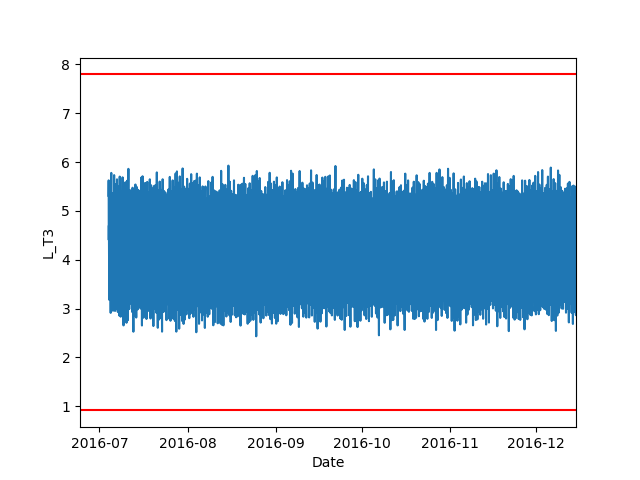
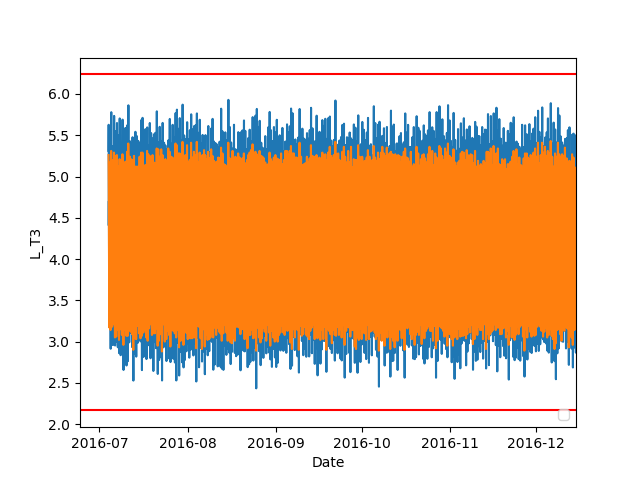
add predictions to arma plots, produce different arma plots, add implementation of pca

diff --git a/sequential_data/pca.py b/sequential_data/pca.py
@@ -1,29 +1,119 @@
 from numpy import *
 import numpy as np
 import pandas as pd
-from sklearn import preprocessing
-from statsmodels.multivariate.pca import PCA
+from pandas import  datetime
+from sklearn.preprocessing import StandardScaler
+from sklearn.decomposition import PCA
+import matplotlib.pyplot as plt
 
-data = pd.read_csv("BATADAL_dataset03.csv")
-test_data = pd.read_csv("BATADAL_test_dataset.csv")
-#test_data = pd.read_csv("BATADAL_dataset04.csv")
+def parser(x):
+    return datetime.strptime(x, '%d/%m/%y %H')
 
-'''Normalise data'''
-# datanumpy = data[data.columns[1:]].values #returns a numpy array
-# min_max_scaler = preprocessing.MinMaxScaler()
-# datanumpy_scaled = min_max_scaler.fit_transform(datanumpy)
-# data[data.columns[1:]] = pd.DataFrame(datanumpy_scaled)
+parsed_train_data1 = pd.read_csv("BATADAL_dataset03.csv", header=0, parse_dates=[0], index_col=0, squeeze=True, date_parser=parser)
+parsed_train_data2 = pd.read_csv("BATADAL_dataset04.csv", header=0, parse_dates=[0], index_col=0, squeeze=True, date_parser=parser)
+parsed_test_data = pd.read_csv("BATADAL_test_dataset.csv", header=0, parse_dates=[0], index_col=0, squeeze=True, date_parser=parser)
+
+def set_attacks(test_set):
+    test_set = test_set.assign(ATT_FLAG=np.zeros(test_set.shape[:][0]))
+    test_set.loc[:,'ATT_FLAG'] = test_set.loc[:, 'ATT_FLAG'].map({0: -999})
+    test_set.loc['2017-01-16 09:00:00':'2017-01-19 06:00:00', 'ATT_FLAG'] = 1
+    test_set.loc['2017-01-30 08:00:00':'2017-02-02 00:00:00', 'ATT_FLAG'] = 1
+    test_set.loc['2017-02-09 03:00:00':'2017-02-10 09:00:00', 'ATT_FLAG'] = 1
+    test_set.loc['2017-02-12 01:00:00':'2017-02-13 07:00:00', 'ATT_FLAG'] = 1
+    test_set.loc['2017-02-24 05:00:00':'2017-02-28 08:00:00', 'ATT_FLAG'] = 1
+    test_set.loc['2017-03-10 14:00:00':'2017-03-13 21:00:00', 'ATT_FLAG'] = 1
+    test_set.loc['2017-03-25 20:00:00':'2017-03-27 01:00:00', 'ATT_FLAG'] = 1
+
+    return test_set
+
+def transform_data(dataset):
+    scalar = StandardScaler()
+    x = dataset.iloc[:,0:43].values
+    x = scalar.fit_transform(x)
+    y = dataset.iloc[:, 43]
+
+    return x,y
+
+def pca_task(pca, t, index, label):
+    pca_model = pca.transform(t)
+    residual = t - pca.inverse_transform(pca_model)
+    spe = np.square(np.linalg.norm(residual, axis = 1))
+    spe = spe / max(spe)
+
+    threshold = 0.09
+    notanomalous = spe > threshold
+
+    plt.plot(spe)
+    plt.plot(label.map({-999: -0.1, 0: 0, 1: 1}).values)
+    plt.show()
+
+    plt.figure(figsize=[15, 10])
+    plt.plot(notanomalous)
+    plt.plot(label.map({-999: -0.1, 0: 0, 1: 1}).values)
+    plt.show()
+
+    label = label.values
+    predict = notanomalous
+
+    print("*********PCA EValuation Results***********")
+    TP = 0
+    TN = 0
+    FP = 0
+    FN = 0
+    for i in range(len(predict)):
+        if (predict[i] == 1):
+            if (label[i] == 1):
+                TP = TP + 1
+            else:
+                FP = FP + 1
+        else:
+            if (label[i] == 1):
+                FN = FN + 1
+            else:
+                TN = TN + 1
+
+    Precision = float(TP) / float(TP + FP)
+    Recall = float(TP) / float(TP + FN)
+
+    F1 = 2 * float(Precision * Recall) / float(Precision + Recall)
+
+    numberOfAnomalousRegions = 0
+    detected = 0
+    for i in range(len(predict)):
+        if (label[i] == 1):
+            if (detected == 1):
+                continue
+            else:
+                if (predict[i] == 1):
+                    detected = 1
+                    numberOfAnomalousRegions = numberOfAnomalousRegions + 1
+                continue
+        else:
+            if (detected == 1):
+                detected = 0
+            continue
+    print('Total true positives ' +str(TP))
+    print('Total false negative ' + str(FN))
+
+    print('Precision= ' + str(Precision))
+    print('Recall= ' + str(Recall))
+    print('F1= ' + str(F1))
+    print('number of anomalous regions= ' + str(numberOfAnomalousRegions))
 
 
-# datanumpy = test_data[test_data.columns[1:]].values #returns a numpy array
-# min_max_scaler = preprocessing.MinMaxScaler()
-# datanumpy_scaled = min_max_scaler.fit_transform(datanumpy)
-# test_data[test_data.columns[1:]] = pd.DataFrame(datanumpy_scaled)
+test_set = set_attacks(parsed_test_data)
 
-pca_train = PCA(data[data.columns[1:-1]], method='eig', normalize=True, tol_em=5e-06)
+test_set = test_set.fillna(test_set.median(axis=0))
+training_set1 = parsed_train_data1.fillna(parsed_train_data1.median(axis = 0))
+training_set2 = parsed_train_data2.fillna(parsed_train_data2.median(axis = 0))
 
-fig = pca_train.plot_rsquare()
-fig.show()
+x1, y1 = transform_data(training_set1)
+x2, y2 = transform_data(training_set2)
+z, yz = transform_data(test_set)
+
+pca = PCA(n_components=7)
+pca.fit(x1)
+
+pca_task(pca, x2, training_set1.index, y2)
 
 
-print(pca_train.factors)

diff --git a/sequential_data/armaJoinedDataset.py b/sequential_data/armaJoinedDataset.py
@@ -1,14 +1,49 @@
-from datetime import  timedelta
-from sklearn.metrics import accuracy_score, recall_score, classification_report, confusion_matrix
+from datetime import timedelta
 from pandas import datetime
 import statistics as st
 import pandas as pd
-from matplotlib import pyplot
 from statsmodels.tsa.stattools import arma_order_select_ic
-
 from statsmodels.tsa.arima_model import ARMA
 from sklearn.metrics import mean_squared_error
 import numpy as np
+import matplotlib.pyplot as plt
+
+
+def plot_arma(column_name, dates, y, ypred, std, mean):
+    day_before = dates[0] - timedelta(days=10)
+    last_day = dates[-1] - timedelta(days=10)
+
+    upperbound = mean + (3 * std)
+    lowerbound = mean - (3 * std)
+
+    plt.axhline(y=(upperbound), color='red')
+    plt.axhline(y=(lowerbound), color='red')
+
+    plt.xlim(day_before, last_day)
+
+    plt.plot(dates, y)
+    plt.plot(dates, ypred)
+    plt.xlabel("Date")
+    plt.ylabel(column_name)
+    plt.legend(loc="lower right")
+    plt.savefig("armaResults/Anomaly%s" % column_name)
+    plt.close()
+
+
+def plot_residual(column_name, dates, residuals):
+    residuals = pd.DataFrame(residuals)
+    residuals.plot()
+    plt.savefig("armaResults/Residual%s" % column_name)
+    plt.close()
+
+    residuals.plot(kind='kde')
+    plt.savefig("armaResults/Density%s" % column_name)
+    plt.close()
+    print(residuals.describe())
+
+
+def parser(x):
+    return datetime.strptime(x, '%d/%m/%y %H')
 
 
 def predict(coef, history):
@@ -25,38 +60,6 @@ def difference(dataset):
         diff.append(value)
     return np.array(diff)
 
-def parser(x):
-    return datetime.strptime(x, '%d/%m/%y %H')
-
-def plot_arma(column_name, dates, y, std, mean):
-    day_before = dates[0] - timedelta(days=10)
-    last_day = dates[-1] - timedelta(days=10)
-
-    upperbound = mean + (3 * std)
-    lowerbound = mean - (3 * std)
-
-    pyplot.axhline(y=(upperbound*1.25), color='red')
-    pyplot.axhline(y=(lowerbound - 1.25), color='red')
-
-    pyplot.xlim(day_before, last_day)
-
-    pyplot.plot(dates, y)
-    pyplot.xlabel("Date")
-    pyplot.ylabel(column_name)
-    pyplot.savefig("armaResults/Anomaly%s" % column_name)
-    pyplot.close()
-
-
-def plot_residual(column_name, dates, residuals):
-    residuals = pd.DataFrame(residuals)
-    residuals.plot()
-    pyplot.savefig("armaResults/Residual%s" % column_name)
-    pyplot.close()
-
-    residuals.plot(kind='kde')
-    pyplot.savefig("armaResults/Density%s" % column_name)
-    pyplot.close()
-    print(residuals.describe())
 
 def aic(dataset, columns):
     aic_orders = {}
@@ -69,9 +72,6 @@ def aic(dataset, columns):
 
 train_data1 = pd.read_csv("BATADAL_dataset03.csv", header=0, parse_dates=[0], index_col=None, squeeze=True, date_parser=parser)
 train_data2 = pd.read_csv("BATADAL_dataset04.csv", header=0, parse_dates=[0], index_col=None, squeeze=True, date_parser=parser)
-
-print(train_data1.columns)
-print(train_data2.columns)
 
 columns = train_data1.columns[[1, 2, 3, 4, 5, 6, 7]]
 aic_orders = aic(train_data1, columns)
@@ -111,8 +111,6 @@ for c in columns:
 
     train_dates = [x for x in train_data1['DATETIME']]
 
-    plot_arma(c, dates, predictions[c], standard_deviation, mean)
+    plot_arma(c, dates, predictions[c], test_data_values, standard_deviation, mean)
     plot_residual(c, train_dates, model_fit.resid)
-
-
 

diff --git a/sequential_data/plotting.py b/sequential_data/plotting.py
@@ -63,3 +63,5 @@ py.plot(fig)
 plt.show()
 
 
+
+
